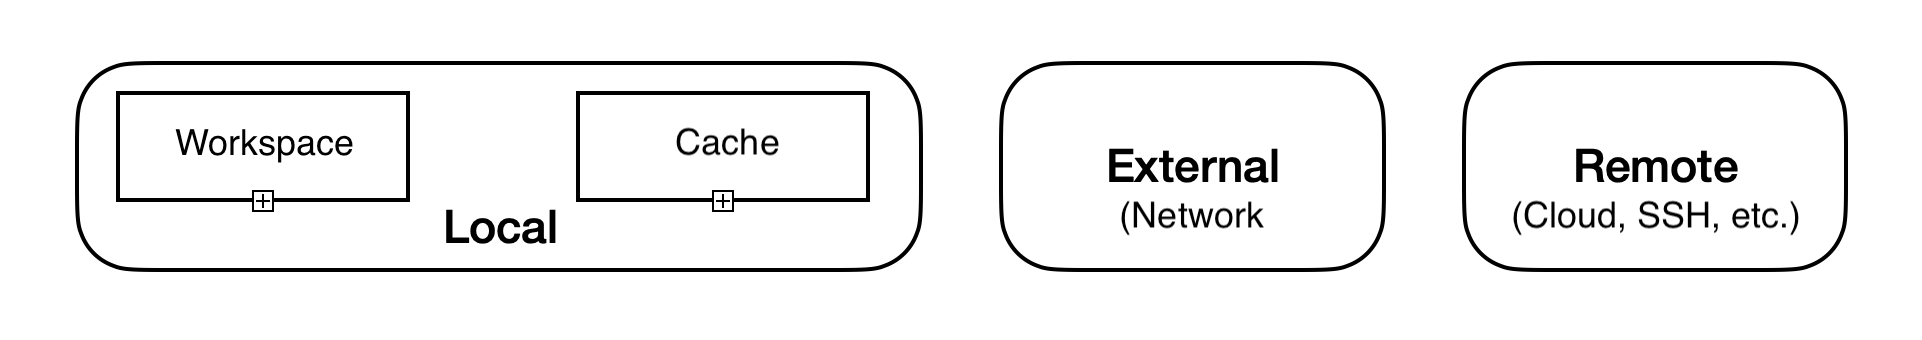
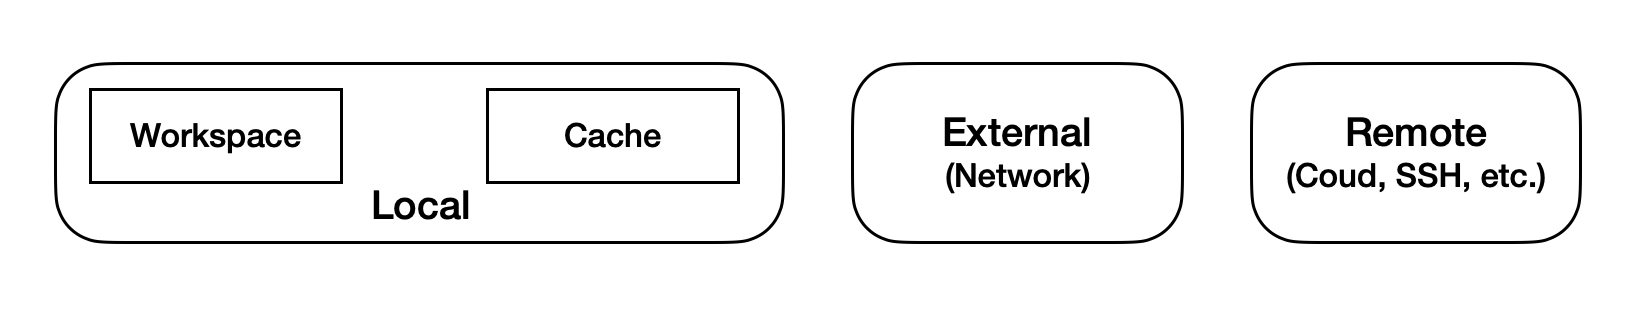
guide: mention clouds first (DM) and
and update fig. 1
per https://github.com/iterative/dvc.org/pull/4042#pullrequestreview-1150328760

diff --git a/content/docs/user-guide/data-management/index.md b/content/docs/user-guide/data-management/index.md
@@ -1,13 +1,17 @@
 # Data Management with DVC
 
 DVC helps you manage and share arbitrarily large files, datasets, and ML models
-anywhere: mounted drives, network resources (e.g. NAS), external devices, or
-remotely (SSH servers, cloud storage, etc.). Once the project is configured, you
-can manipulate files normally in your local workspace. DVC tracks, restores, and
-synchronizes them across locations.
+anywhere: cloud storage, SSH servers, network resources (e.g. NAS), mounted
+drives, local file systems, etc. You manipulate DVC project normally in your
+local workspace; DVC tracks, restores, and synchronizes them across locations.
 
 ![Storage locations](/img/storage-locations.png) _Local, external, and remote
 storage locations_
+
+<!--
+one page, no subtitles initially
+one story that highlights DVC's workflow with data, building blocks
+-->
 
 ## The data cache
 
